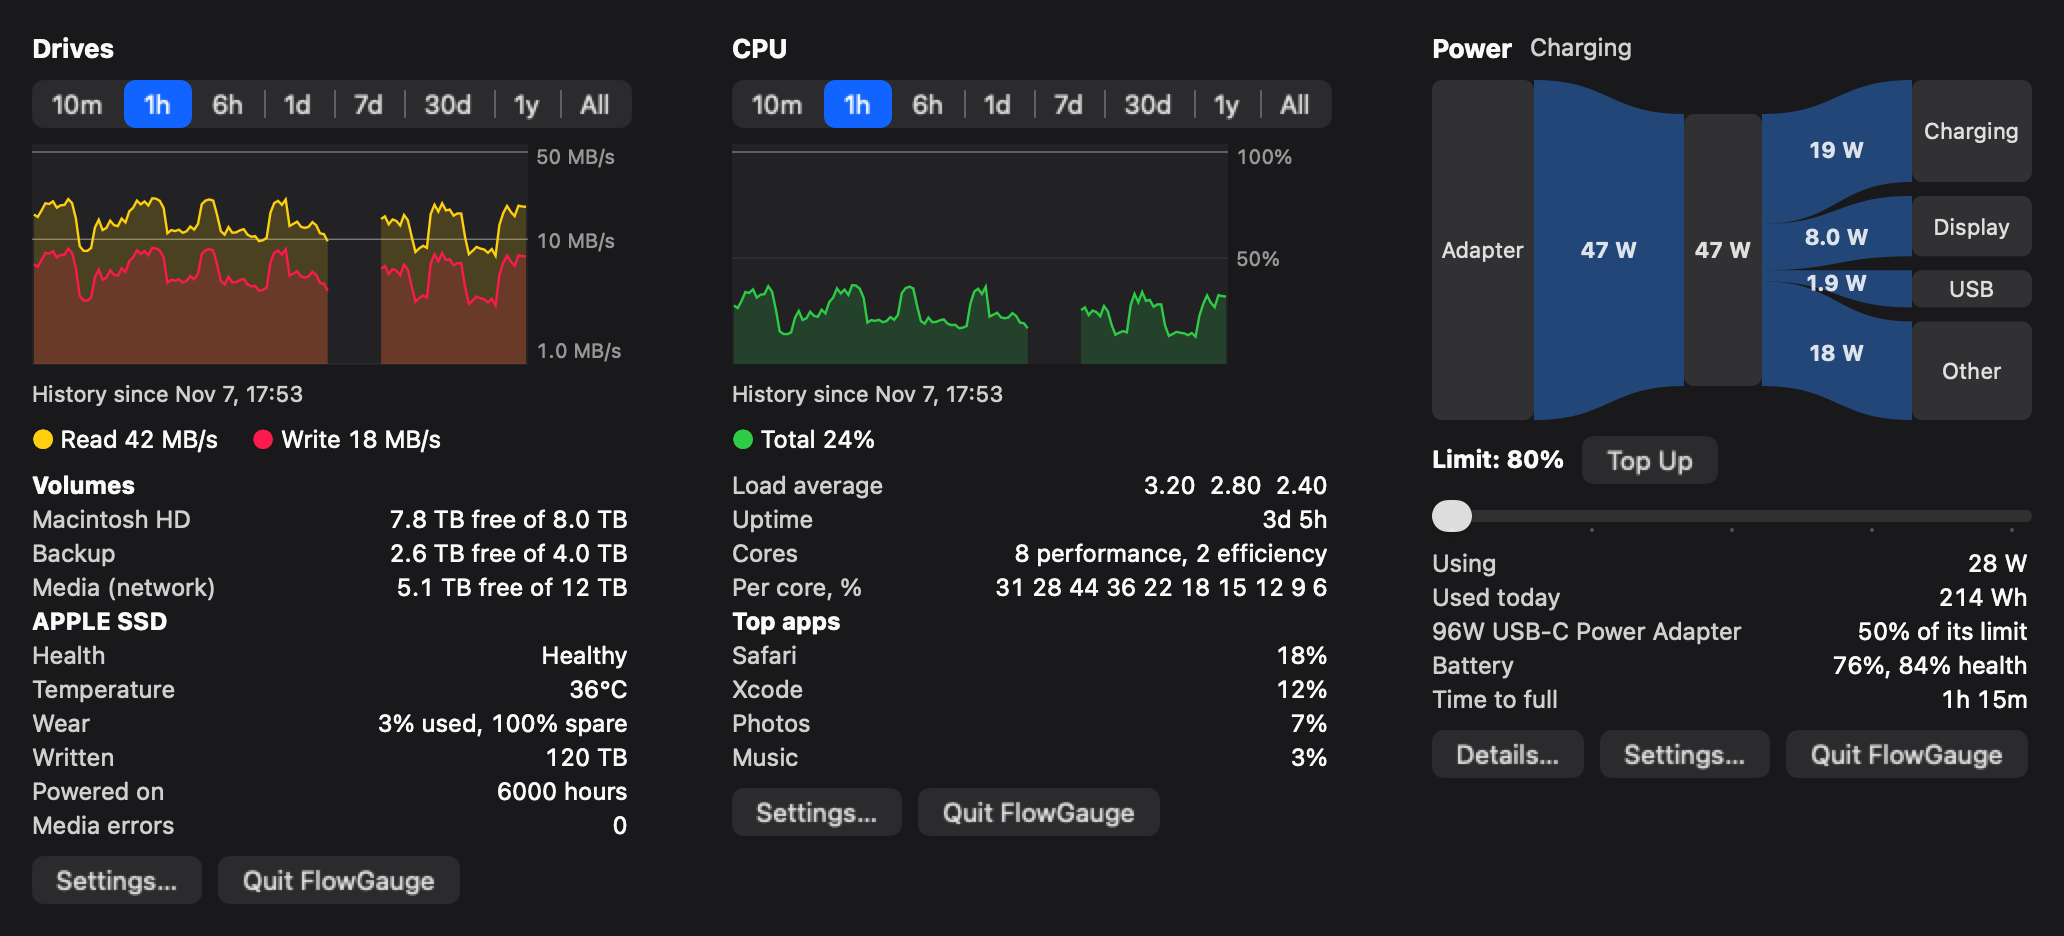
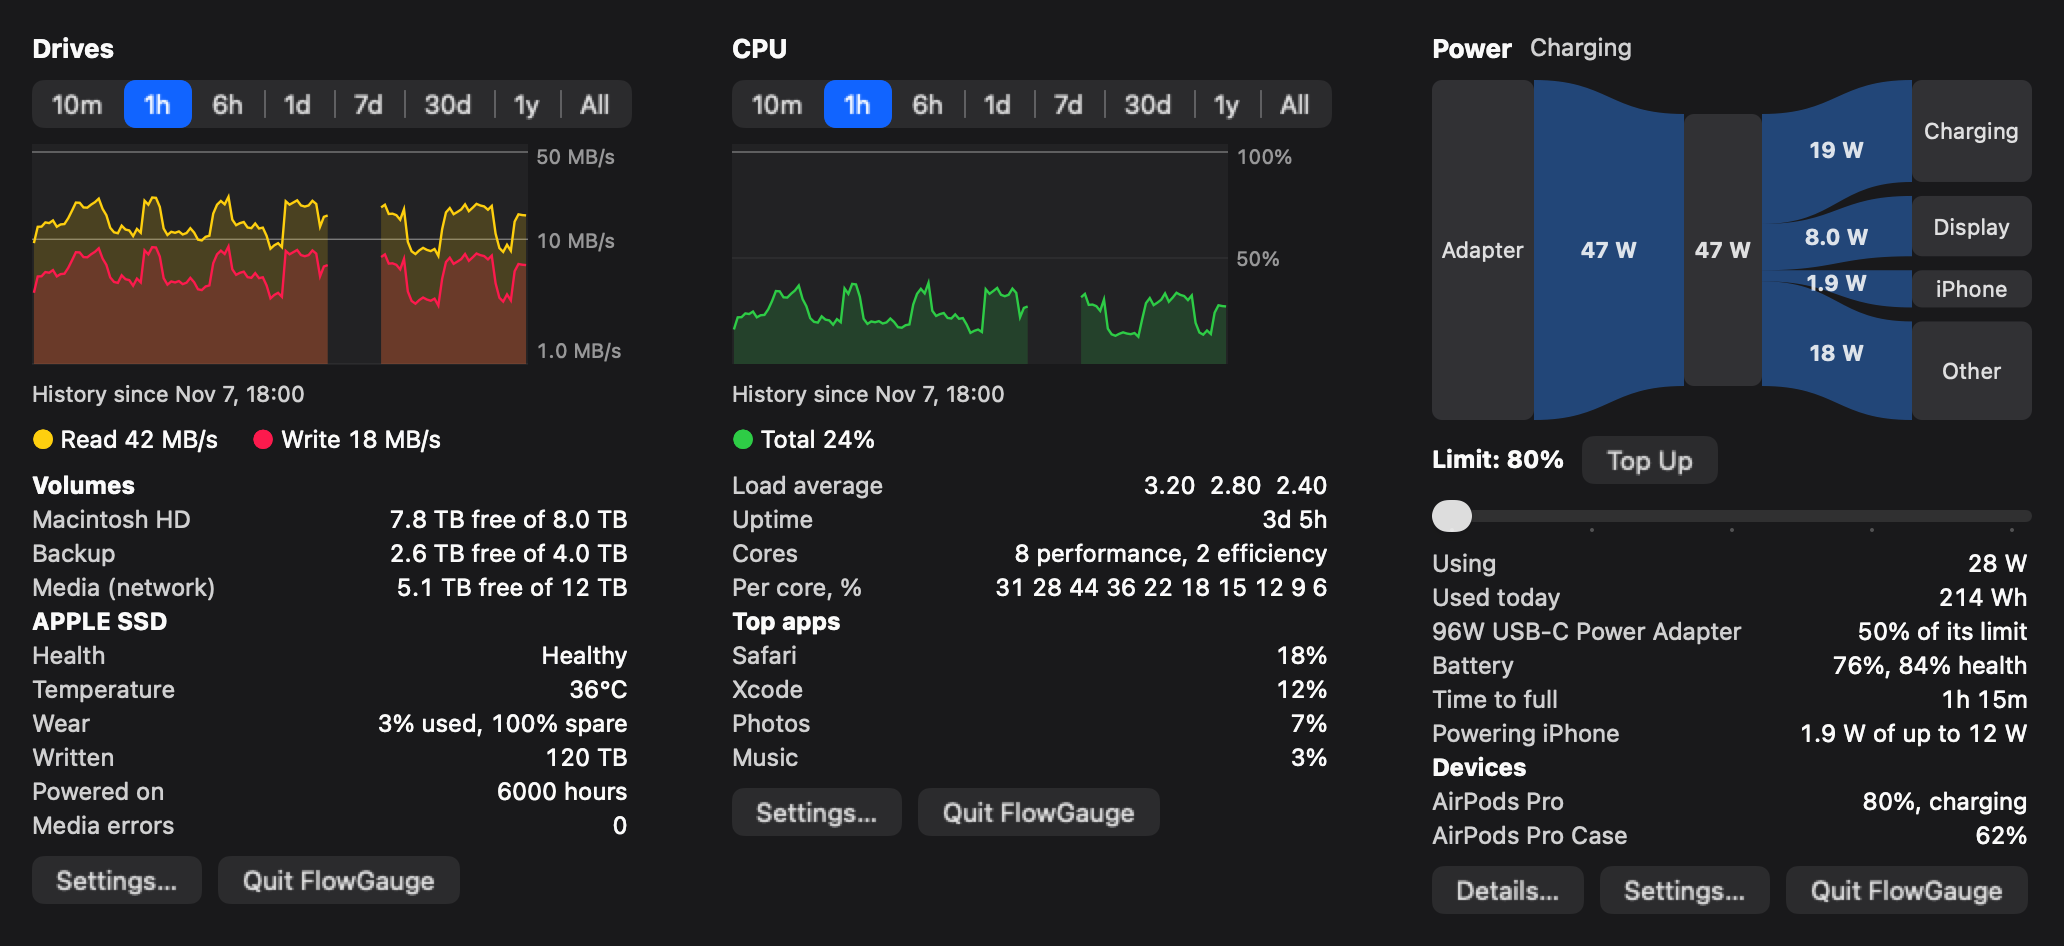
feat: name devices charging from the Mac, and list accessory batteries

diff --git a/crates/gauge-app/src/view.rs b/crates/gauge-app/src/view.rs
@@ -49,6 +49,8 @@ pub struct Latest {
     pub sensors: Vec<gauge_core::sensors::Reading>,
     pub temperatures: Vec<gauge_core::sensors::AreaTemperature>,
     pub device_batteries: Vec<gauge_core::battery::DeviceBattery>,
+    /// Devices drawing power from this Mac's USB ports, like a charging iPhone.
+    pub usb_devices: Vec<gauge_core::battery::UsbDevice>,
     pub energy_today_wh: f64,
     pub power: Option<gauge_core::battery::PowerSample>,
     /// What macOS is enforcing. Outer `None` means not read yet or not understood.
@@ -61,7 +63,7 @@ pub struct Flow {
     pub adapter: f64,
     pub battery: f64,
     /// Label and watts, largest last so "Other" sits at the bottom. Zero outputs are left out.
-    pub outputs: Vec<(&'static str, f64)>,
+    pub outputs: Vec<(String, f64)>,
 }
 
 impl Flow {
@@ -82,20 +84,46 @@ pub fn power_flow(latest: &Latest) -> Option<Flow> {
     let (from_battery, into_battery) = if draining { (power.battery_watts, 0.0) } else { (0.0, power.battery_watts) };
     let adapter = if unplugged { 0.0 } else { power.adapter_watts };
     let total = adapter + from_battery;
-    let mut outputs: Vec<(&'static str, f64)> = Vec::new();
+    let mut outputs: Vec<(String, f64)> = Vec::new();
     let mut remaining = total;
     let usb = battery.and_then(|b| b.usb_out_watts).unwrap_or(0.0);
-    for (label, watts) in [("Charging", into_battery), ("Display", power.display_watts), ("USB", usb)] {
+    let usb_label = usb_label(&latest.usb_devices);
+    for (label, watts) in [("Charging", into_battery), ("Display", power.display_watts), (usb_label.as_str(), usb)] {
         let watts = watts.min(remaining);
         if watts >= FLOW_MIN_WATTS {
-            outputs.push((label, watts));
+            outputs.push((label.to_string(), watts));
             remaining -= watts;
         }
     }
     if remaining >= FLOW_MIN_WATTS {
-        outputs.push(("Other", remaining));
+        outputs.push(("Other".to_string(), remaining));
     }
     Some(Flow { adapter, battery: from_battery, outputs })
+}
+
+/// What the Mac is powering over USB: the device's name when there's one, like "iPhone".
+pub fn usb_label(devices: &[gauge_core::battery::UsbDevice]) -> String {
+    match devices {
+        [] => "USB".to_string(),
+        [one] => one.name.clone(),
+        [first, rest @ ..] => format!("{} + {}", first.name, rest.len()),
+    }
+}
+
+/// A row saying which devices charge from the Mac, and how much they're drawing.
+fn usb_row(latest: &Latest) -> Option<Row> {
+    let watts = latest.battery.as_ref().and_then(|b| b.usb_out_watts).filter(|w| *w >= FLOW_MIN_WATTS);
+    if latest.usb_devices.is_empty() && watts.is_none() {
+        return None;
+    }
+    let allowed: f64 = latest.usb_devices.iter().map(|d| d.allocated_watts).sum();
+    let value = match (watts, allowed > 0.0) {
+        (Some(w), true) => format!("{} of up to {}", format_watts(w), format_watts(allowed)),
+        (Some(w), false) => format_watts(w),
+        (None, _) => "Connected, not drawing".to_string(),
+    };
+    let label = if latest.usb_devices.is_empty() { "Powering USB devices".to_string() } else { format!("Powering {}", usb_label(&latest.usb_devices)) };
+    Some(row(label, value))
 }
 
 /// The label beside the charge limit slider.
@@ -133,7 +161,7 @@ pub fn power_summary(latest: &Latest, settings: &Settings) -> Vec<Row> {
         let health = b.health_percent.map_or_else(String::new, |h| format!(", {h:.0}% health"));
         rows.push(row("Battery", format!("{percent}%{health}")));
     }
-    if let Some(minutes) = b.minutes_to_full.filter(|_| b.charging == Some(true)) {
+    if let Some(minutes) = b.minutes_to_full.filter(|m| *m > 0 && b.charging == Some(true)) {
         rows.push(row("Time to full", format_duration(minutes)));
     }
     if let Some(minutes) = b.minutes_remaining.filter(|_| b.external_power != Some(true)) {
@@ -142,6 +170,7 @@ pub fn power_summary(latest: &Latest, settings: &Settings) -> Vec<Row> {
     if let Some(error) = &latest.charge_error {
         rows.push(row("Charge limit", error.clone()));
     }
+    rows.extend(usb_row(latest));
     rows.extend(device_rows(latest));
     let _ = settings;
     rows
@@ -152,7 +181,8 @@ fn device_rows(latest: &Latest) -> Vec<Row> {
     if !latest.device_batteries.is_empty() {
         rows.push(header("Devices"));
         for device in &latest.device_batteries {
-            rows.push(row(device.name.clone(), format!("{}%", device.percent)));
+            let state = if device.charging == Some(true) { ", charging" } else { "" };
+            rows.push(row(device.name.clone(), format!("{}%{state}", device.percent)));
         }
     }
     rows
@@ -210,6 +240,7 @@ pub fn power_cards(latest: &Latest, settings: &Settings) -> [(&'static str, Vec<
             None => adapter_rows.push(row("Status", "Not connected")),
         }
     }
+    adapter_rows.extend(usb_row(latest));
     [("Battery", now), ("Health", health), ("Power adapter", adapter_rows)]
 }
 
@@ -1171,9 +1202,26 @@ mod tests {
     }
 
     #[test]
+    fn usb_power_names_the_device_it_charges() {
+        use gauge_core::battery::UsbDevice;
+        let phone = UsbDevice { name: "iPhone".into(), allocated_watts: 12.0 };
+        let pad = UsbDevice { name: "iPad".into(), allocated_watts: 15.0 };
+        assert_eq!(usb_label(&[]), "USB");
+        assert_eq!(usb_label(&[phone.clone()]), "iPhone");
+        assert_eq!(usb_label(&[phone.clone(), pad]), "iPhone + 1");
+        let latest = Latest {
+            battery: Some(Battery { usb_out_watts: Some(1.9), ..plugged_in() }),
+            usb_devices: vec![phone],
+            ..Latest::default()
+        };
+        let row = usb_row(&latest).unwrap();
+        assert_eq!((row.key.as_str(), row.value.as_str()), ("Powering iPhone", "1.9 W of up to 12 W"));
+    }
+
+    #[test]
     fn device_batteries_appear_with_or_without_a_mac_battery() {
         let latest = Latest {
-            device_batteries: vec![gauge_core::battery::DeviceBattery { name: "Magic Mouse".into(), percent: 42 }],
+            device_batteries: vec![gauge_core::battery::DeviceBattery { name: "Magic Mouse".into(), percent: 42, charging: None }],
             ..Latest::default()
         };
         assert_eq!(value(&content("battery", &latest, &Settings::default()), "Magic Mouse"), "42%");
@@ -1223,7 +1271,7 @@ mod tests {
         let flow = power_flow(&latest).unwrap();
         assert_eq!(flow.adapter, 47.0);
         assert_eq!(flow.battery, 0.0);
-        let labels: Vec<&str> = flow.outputs.iter().map(|o| o.0).collect();
+        let labels: Vec<&str> = flow.outputs.iter().map(|o| o.0.as_str()).collect();
         assert_eq!(labels, ["Charging", "Display", "USB", "Other"]);
         let out: f64 = flow.outputs.iter().map(|o| o.1).sum();
         assert!((out - flow.total()).abs() < 0.001);
@@ -1244,7 +1292,7 @@ mod tests {
         let latest = Latest { battery: Some(battery), power: Some(sample(30.0, 20.0, 50.0, 0.0)), ..Latest::default() };
         let flow = power_flow(&latest).unwrap();
         assert_eq!((flow.adapter, flow.battery), (30.0, 20.0));
-        assert_eq!(flow.outputs, [("Other", 50.0)]);
+        assert_eq!(flow.outputs, [("Other".to_string(), 50.0)]);
     }
 
     #[test]

diff --git a/crates/gauge-core/src/battery.rs b/crates/gauge-core/src/battery.rs
@@ -178,20 +178,105 @@ pub fn power_watts(voltage_mv: Option<i64>, amperage_ma: Option<i64>) -> Option<
 pub struct DeviceBattery {
     pub name: String,
     pub percent: i64,
+    pub charging: Option<bool>,
 }
 
-/// Wireless keyboards, mice and trackpads that report a charge. Headphones often don't appear
-/// here, since macOS doesn't list them in this part of the registry.
+/// A device drawing power from one of this Mac's USB ports, like a phone charging from it.
+#[derive(Debug, Clone, PartialEq, Serialize)]
+pub struct UsbDevice {
+    pub name: String,
+    /// What macOS has agreed to supply it, at 5 V.
+    pub allocated_watts: f64,
+}
+
+/// Above the 500 mA every USB device gets, so only devices that charge from the Mac count.
+const CHARGING_ALLOCATION_MA: i64 = 900;
+const USB_VOLTS: f64 = 5.0;
+
+pub fn read_usb_devices() -> Vec<UsbDevice> {
+    iokit::services_of_class("IOUSBHostDevice")
+        .iter()
+        .filter_map(|device| {
+            let milliamps = device.i64("UsbPowerSinkAllocation").filter(|ma| *ma >= CHARGING_ALLOCATION_MA)?;
+            let name = iokit::as_string(&device.property("USB Product Name")?)?;
+            Some(UsbDevice { name, allocated_watts: milliamps as f64 * USB_VOLTS / 1000.0 })
+        })
+        .collect()
+}
+
+#[link(name = "IOKit", kind = "framework")]
+unsafe extern "C" {
+    /// Not in the public headers, but exported by IOKit and used by `pmset -g accps`.
+    fn IOPSCopyPowerSourcesByType(source_type: i32) -> core_foundation_sys::base::CFTypeRef;
+    fn IOPSCopyPowerSourcesList(blob: core_foundation_sys::base::CFTypeRef) -> core_foundation_sys::array::CFArrayRef;
+    fn IOPSGetPowerSourceDescription(
+        blob: core_foundation_sys::base::CFTypeRef,
+        source: core_foundation_sys::base::CFTypeRef,
+    ) -> core_foundation_sys::dictionary::CFDictionaryRef;
+}
+
+/// Asks for accessory power sources only, like AirPods and their case.
+const ACCESSORY_SOURCES: i32 = 4;
+
+/// Accessories macOS lists as power sources, like AirPods and their case. The Mac's own
+/// battery is left out.
+fn read_accessories() -> Vec<DeviceBattery> {
+    use core_foundation::array::CFArray;
+    use core_foundation::base::{CFType, TCFType};
+    // SAFETY: the copy functions return owned objects or null, wrapped once each; descriptions
+    // are borrowed from the blob, which outlives them.
+    unsafe {
+        let blob = IOPSCopyPowerSourcesByType(ACCESSORY_SOURCES);
+        if blob.is_null() {
+            return Vec::new();
+        }
+        let blob = CFType::wrap_under_create_rule(blob);
+        let list = IOPSCopyPowerSourcesList(blob.as_CFTypeRef());
+        if list.is_null() {
+            return Vec::new();
+        }
+        let list: CFArray<CFType> = CFArray::wrap_under_create_rule(list);
+        list.iter()
+            .filter_map(|source| {
+                let description = IOPSGetPowerSourceDescription(blob.as_CFTypeRef(), source.as_CFTypeRef());
+                if description.is_null() {
+                    return None;
+                }
+                let description = CFType::wrap_under_get_rule(description.cast());
+                if iokit::dict_string(&description, "Type").as_deref() == Some("InternalBattery") {
+                    return None;
+                }
+                let current = iokit::dict_i64(&description, "Current Capacity")?;
+                let max = iokit::dict_i64(&description, "Max Capacity").filter(|m| *m > 0).unwrap_or(100);
+                Some(DeviceBattery {
+                    name: iokit::dict_string(&description, "Name")?,
+                    percent: (current * 100 / max).clamp(0, 100),
+                    charging: iokit::dict_bool(&description, "Is Charging"),
+                })
+            })
+            .collect()
+    }
+}
+
+/// Wireless keyboards, mice and trackpads that report a charge, plus accessories macOS lists as
+/// power sources, like AirPods. An iPhone charging by cable doesn't share its charge with the Mac.
 pub fn read_devices() -> Vec<DeviceBattery> {
-    iokit::services_of_class("AppleDeviceManagementHIDEventService")
+    let mut devices: Vec<DeviceBattery> = iokit::services_of_class("AppleDeviceManagementHIDEventService")
         .iter()
         .filter_map(|service| {
             Some(DeviceBattery {
                 percent: service.i64("BatteryPercent")?,
                 name: iokit::as_string(&service.property("Product")?)?,
+                charging: None,
             })
         })
-        .collect()
+        .collect();
+    for accessory in read_accessories() {
+        if !devices.iter().any(|d| d.name == accessory.name) {
+            devices.push(accessory);
+        }
+    }
+    devices
 }
 
 pub fn read() -> Option<Battery> {
@@ -338,5 +423,17 @@ mod tests {
     fn power_is_signed_by_direction() {
         assert_eq!(power_watts(Some(12000), Some(-1000)), Some(-12.0));
         assert_eq!(power_watts(Some(12000), None), None);
+    }
+
+    #[test]
+    fn usb_devices_and_accessories_read_without_failing() {
+        for device in read_usb_devices() {
+            assert!(!device.name.is_empty() && device.allocated_watts >= 4.5, "{device:?}");
+            eprintln!("usb: {} allowed {:.0} W", device.name, device.allocated_watts);
+        }
+        for device in read_devices() {
+            assert!((0..=100).contains(&device.percent), "{device:?}");
+            eprintln!("battery: {}% charging {:?}", device.percent, device.charging);
+        }
     }
 }

diff --git a/crates/gauge-app/src/worker.rs b/crates/gauge-app/src/worker.rs
@@ -36,6 +36,8 @@ const ROUTE_EVERY: u64 = 10;
 const POWER_EVERY: u64 = 2;
 const CHARGE_EVERY: u64 = 3;
 const DEVICE_BATTERY_EVERY: u64 = 30;
+/// Often enough that plugging in a phone shows up quickly.
+const USB_DEVICE_EVERY: u64 = 5;
 const FLUSH_EVERY: u64 = 60;
 const SMART_EVERY: u64 = 60;
 const SENSOR_LIST_EVERY: u64 = 3;
@@ -72,6 +74,7 @@ pub enum Update {
     Sensors(Vec<Reading>),
     Temperatures(Vec<AreaTemperature>),
     DeviceBatteries(Vec<DeviceBattery>),
+    UsbDevices(Vec<battery::UsbDevice>),
     EnergyToday(f64),
     Power(PowerSample),
     ChargeLimit(Option<Option<u8>>, Option<String>),
@@ -549,6 +552,9 @@ pub fn run(updates: Sender<Update>, shared: Arc<Shared>) {
             }
             let _ = updates.send(Update::ChargeLimit(actual, error));
         }
+        if tick.is_multiple_of(USB_DEVICE_EVERY) {
+            let _ = updates.send(Update::UsbDevices(battery::read_usb_devices()));
+        }
         if tick.is_multiple_of(DEVICE_BATTERY_EVERY) {
             let _ = updates.send(Update::DeviceBatteries(battery::read_devices()));
         }
@@ -603,6 +609,7 @@ pub fn absorb(latest: &mut crate::view::Latest, update: Update) {
         Update::Sensors(sensors) => latest.sensors = sensors,
         Update::Temperatures(areas) => latest.temperatures = areas,
         Update::DeviceBatteries(devices) => latest.device_batteries = devices,
+        Update::UsbDevices(devices) => latest.usb_devices = devices,
         Update::EnergyToday(watt_hours) => latest.energy_today_wh = watt_hours,
         Update::Power(power) => latest.power = Some(power),
         Update::ChargeLimit(actual, error) => {

diff --git a/crates/gauge-app/src/render.rs b/crates/gauge-app/src/render.rs
@@ -469,7 +469,11 @@ fn demo_latest() -> Latest {
         fan_state: crate::fan_control::FanState::Holding,
         install_message: None,
         sensors: Vec::new(),
-        device_batteries: Vec::new(),
+        device_batteries: vec![
+            gauge_core::battery::DeviceBattery { name: "AirPods Pro".into(), percent: 80, charging: Some(true) },
+            gauge_core::battery::DeviceBattery { name: "AirPods Pro Case".into(), percent: 62, charging: Some(false) },
+        ],
+        usb_devices: vec![gauge_core::battery::UsbDevice { name: "iPhone".into(), allocated_watts: 12.0 }],
         energy_today_wh: 214.0,
         power: Some(gauge_core::battery::PowerSample {
             adapter_watts: 47.0,

diff --git a/crates/gauge-core/src/iokit.rs b/crates/gauge-core/src/iokit.rs
@@ -145,6 +145,13 @@ pub fn dict_i64(value: &CFType, key: &str) -> Option<i64> {
     as_i64(&*dict.find(CFString::new(key))?)
 }
 
+pub fn dict_bool(value: &CFType, key: &str) -> Option<bool> {
+    let dict: CFDictionary<CFString, CFType> =
+        // SAFETY: only used after confirming the value is a dictionary.
+        unsafe { CFDictionary::wrap_under_get_rule(dict_ref(value)?) };
+    as_bool(&*dict.find(CFString::new(key))?)
+}
+
 pub fn dict_string(value: &CFType, key: &str) -> Option<String> {
     let dict: CFDictionary<CFString, CFType> =
         // SAFETY: only used after confirming the value is a dictionary.

diff --git a/README.md b/README.md
@@ -29,7 +29,7 @@ On that Mac, fan control has been tested with both fans moving between 2,000 and
 - **Drives:** free space, read and write speed, and NVMe health
 - **Fans:** live speed, temperature, and presets you can add, rename and delete, with fixed speeds or temperature curves
 - **Sensors:** a window listing every temperature, power, voltage and current reading. Named sensors are from community research and apply to M1 chips; the rest keep their raw codes
-- **Power:** a diagram of power flowing from the adapter and battery to the display, USB, charging and the rest of the Mac, plus a window with adapter details, battery health, and graphs
+- **Power:** a diagram of power flowing from the adapter and battery to the display, charging, devices on USB like a charging iPhone, and the rest of the Mac, plus a window with adapter details, battery health, and graphs. AirPods and other accessories that report a charge are listed too. An iPhone charging by cable doesn't share its battery level with the Mac, so that isn't shown
 - **Countries:** an optional setting that shows which country each connection goes to, using [DB-IP](https://db-ip.com)'s free country file
 - **Charge limit:** sets the limit built into macOS 27, from 80% to 100%, with Top Up to charge to full once. It doesn't need the fan helper, and FlowGauge doesn't touch battery hardware directly
 - **Graphs:** ranges from 10 minutes to All, which grows with the saved history, with line, area or bar styles
